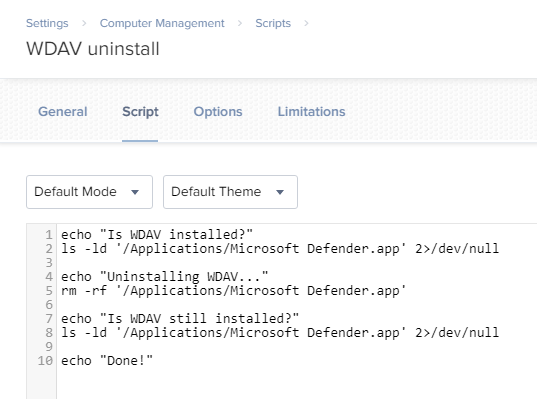
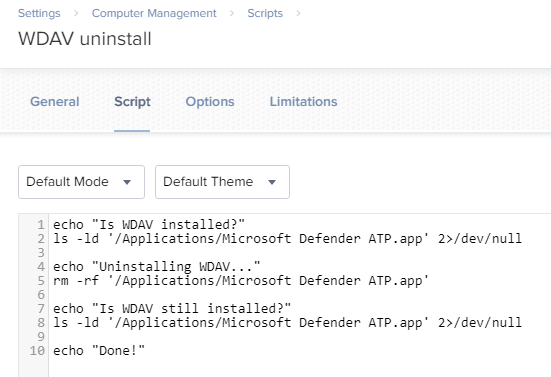
Microsoft Defender for macOS: move JAMF based uninstallation to the JAMF article

diff --git a/windows/security/threat-protection/windows-defender-antivirus/microsoft-defender-atp-mac-resources.md b/windows/security/threat-protection/windows-defender-antivirus/microsoft-defender-atp-mac-resources.md
@@ -32,12 +32,12 @@ If you can reproduce a problem, please increase the logging level, run the syste
 
 1. Increase logging level:
 
-```bash
+   ```bash
    mavel-mojave:~ testuser$ mdatp --log-level verbose
    Creating connection to daemon
    Connection established
    Operation succeeded
-```
+   ```
 
 2. Reproduce the problem
 
@@ -76,35 +76,6 @@ There are several ways to uninstall Microsoft Defender ATP for Mac. Please note 
 ### From the command line
 
 - ```sudo rm -rf '/Applications/Microsoft Defender ATP'```
-
-### With a script
-
-Create a script in **Settings > Computer Management > Scripts**.
-
-![Microsoft Defender uninstall screenshot](images/MDATP_26_Uninstall.png)
-
-For example, this script removes Microsoft Defender ATP from the /Applications directory:
-
-```bash
-   echo "Is WDAV installed?"
-   ls -ld '/Applications/Microsoft Defender ATP.app' 2>/dev/null
-
-   echo "Uninstalling WDAV..."
-   rm -rf '/Applications/Microsoft Defender ATP.app'
-
-   echo "Is WDAV still installed?"
-   ls -ld '/Applications/Microsoft Defender ATP.app' 2>/dev/null
-
-   echo "Done!"
-```
-
-### With a JAMF policy
-
-If you are running JAMF, your policy should contain a single script:
-
-![Microsoft Defender uninstall script screenshot](images/MDATP_27_UninstallScript.png)
-
-Configure the appropriate scope in the **Scope** tab to specify the machines that will receive this policy.
 
 ## Configuring from the command line
 

diff --git a/windows/security/threat-protection/windows-defender-antivirus/microsoft-defender-atp-mac-install-with-jamf.md b/windows/security/threat-protection/windows-defender-antivirus/microsoft-defender-atp-mac-install-with-jamf.md
@@ -204,4 +204,33 @@ See [Logging installation issues](microsoft-defender-atp-mac-resources.md#loggin
 
 ## Uninstallation
 
-See [Uninstalling](microsoft-defender-atp-mac-resources.md#uninstalling) for details on how to remove Microsoft Defender ATP for Mac from client devices.
+This method is based on the script described in [Uninstalling](microsoft-defender-atp-mac-resources.md#uninstalling).
+
+### Script
+
+Create a script in **Settings > Computer Management > Scripts**.
+
+This script removes Microsoft Defender ATP from the /Applications directory:
+
+```bash
+   echo "Is WDAV installed?"
+   ls -ld '/Applications/Microsoft Defender ATP.app' 2>/dev/null
+
+   echo "Uninstalling WDAV..."
+   rm -rf '/Applications/Microsoft Defender ATP.app'
+
+   echo "Is WDAV still installed?"
+   ls -ld '/Applications/Microsoft Defender ATP.app' 2>/dev/null
+
+   echo "Done!"
+```
+
+![Microsoft Defender uninstall screenshot](images/MDATP_26_Uninstall.png)
+
+### Policy
+
+Your policy should contain a single script:
+
+![Microsoft Defender uninstall script screenshot](images/MDATP_27_UninstallScript.png)
+
+Configure the appropriate scope in the **Scope** tab to specify the machines that will receive this policy.
